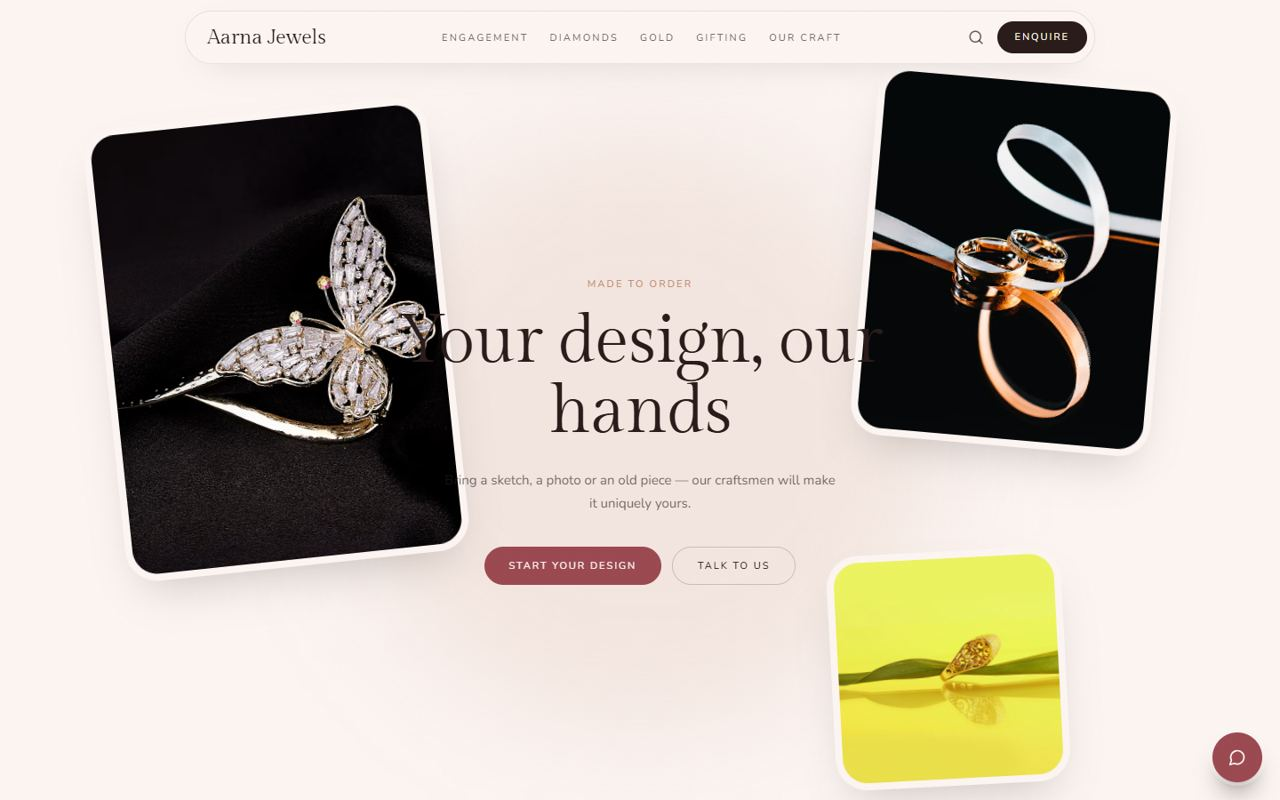
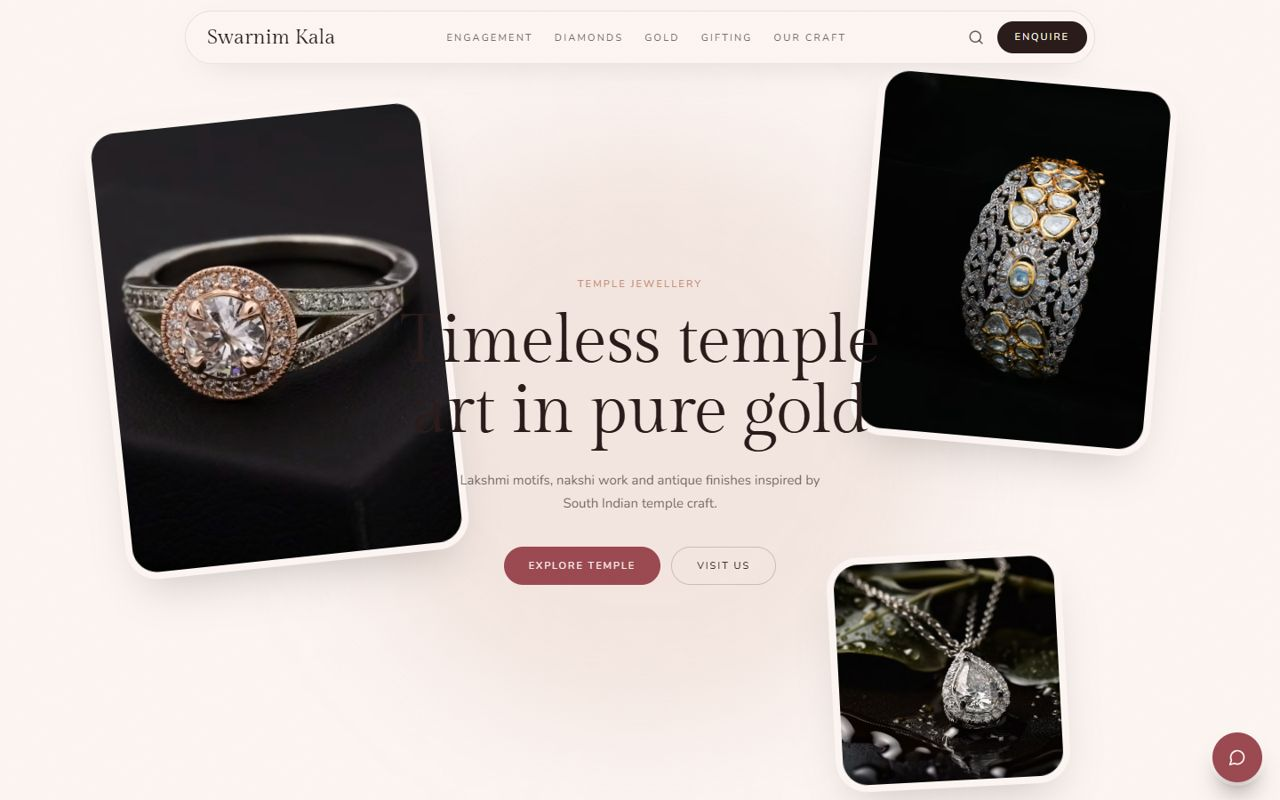
Homepage templates section: "A design that is only yours"
- Replaces the two busy rows of look-alike screenshots with a list of design
  names beside one large browser preview. Resting on a name shows it, the
  preview crossfades by opacity only (a quick sweep never stacks images), and it
  walks through the designs on its own with a progress line. Phones get chips.
- New screenshots: each design shown with its own demo store name and a
  different photo order, so no two open on the same picture.
- No template count anywhere in the section.
- Visitor tracking no longer fires on the platform's own homepage (it has no
  client, so the request 404'd).

Checked with Playwright in Edge at 1440 and 390 px.

diff --git a/src/pages/PlatformHome.tsx b/src/pages/PlatformHome.tsx
@@ -281,58 +281,154 @@ function HeroScene() {
 
 /* ============================================================ templates */
 
-function TemplateRail() {
-  const ref = useRef<HTMLElement>(null);
-  const reduce = useReducedMotion();
-  const { scrollYProgress } = useScroll({ target: ref, offset: ['start end', 'end start'] });
-  // the rows also slide with the scroll, on top of their own slow drift
-  const a = useTransform(scrollYProgress, [0, 1], ['4%', reduce ? '4%' : '-10%']);
-  const b = useTransform(scrollYProgress, [0, 1], ['-10%', reduce ? '-10%' : '4%']);
+function TemplateShowcase() {
   const list = TEMPLATES.filter((t) => t.id !== 'original');
-  const rows = [list.slice(0, 8), list.slice(8)];
+  const [active, setActive] = useState(0);
+  const [paused, setPaused] = useState(false);
+  const reduce = useReducedMotion();
+  const listRef = useRef<HTMLDivElement>(null);
+  const hoverTimer = useRef<number>();
+  // Only the autoplay scrolls the list; scrolling under a resting pointer would select
+  // whatever name slid beneath it.
+  const fromAutoplay = useRef(false);
+  const current = list[active];
+
+  // Walk through the designs on its own; any pointer over the section holds it still.
+  useEffect(() => {
+    if (paused || reduce) return;
+    const timer = window.setTimeout(() => {
+      fromAutoplay.current = true;
+      setActive((i) => (i + 1) % list.length);
+    }, 4200);
+    return () => window.clearTimeout(timer);
+  }, [active, paused, reduce, list.length]);
+
+  // Keep the chosen name in view inside its own scrolling list (never the page).
+  useEffect(() => {
+    if (!fromAutoplay.current) return;
+    fromAutoplay.current = false;
+    const box = listRef.current;
+    const item = box?.querySelector<HTMLElement>(`[data-i="${active}"]`);
+    if (!box || !item) return;
+    const horizontal = box.scrollWidth > box.clientWidth + 4;
+    if (horizontal) box.scrollTo({ left: item.offsetLeft - box.clientWidth / 2 + item.clientWidth / 2, behavior: 'smooth' });
+    else box.scrollTo({ top: item.offsetTop - box.clientHeight / 2 + item.clientHeight / 2, behavior: 'smooth' });
+  }, [active]);
 
   return (
-    <section ref={ref} id="templates" className="scroll-mt-20 overflow-hidden bg-[#0f1629] py-24 text-[#f6ece8] sm:py-32">
-      <div className="mx-auto max-w-7xl px-5 sm:px-8">
-        <Reveal className="flex flex-wrap items-end justify-between gap-6">
-          <div className="max-w-2xl">
-            <p className="text-xs font-semibold uppercase tracking-[0.25em] text-[#f0c2ae]">Designer templates</p>
-            <h2 className={`${display} mt-3 text-4xl font-medium sm:text-6xl`}>
-              One for every kind of <span className="italic text-[#f0c2ae]">jeweller</span>
-            </h2>
-          </div>
-          <p className="max-w-sm text-sm text-[#f6ece8]/60">
-            Each one moves differently — orbiting jewels, velvet curtains, glass vitrines, a card stack. Pick yours; your colours,
-            photos and words go in.
+    <section
+      id="templates"
+      onPointerEnter={() => setPaused(true)}
+      onPointerLeave={() => setPaused(false)}
+      className="relative scroll-mt-20 overflow-hidden bg-[#0f1629] py-24 text-[#f6ece8] sm:py-32">
+
+      <div aria-hidden className="pointer-events-none absolute -left-40 top-20 h-[30rem] w-[30rem] rounded-full bg-[#e0a891]/10 blur-3xl" />
+      <div className="relative mx-auto max-w-7xl px-5 sm:px-8">
+        <Reveal className="max-w-2xl">
+          <p className="text-xs font-semibold uppercase tracking-[0.25em] text-[#f0c2ae]">Designer templates</p>
+          <h2 className={`${display} mt-3 text-4xl font-medium sm:text-6xl`}>
+            A design that is <span className="italic text-[#f0c2ae]">only yours</span>
+          </h2>
+          <p className="mt-5 text-[#f6ece8]/60">
+            Every store gets its own design. Once it is yours, no other jeweller on the platform can use it.
           </p>
         </Reveal>
-      </div>
 
-      <div className="kit-marquee-wrap mt-16 space-y-6">
-        {rows.map((row, r) =>
-        <motion.div key={r} style={{ x: r ? b : a }}>
-            <div className={`kit-marquee flex w-max gap-6 ${r ? '[animation-direction:reverse]' : ''}`} style={{ animationDuration: '90s' }}>
-              {[...row, ...row].map((t, i) =>
-            <figure key={`${t.id}-${i}`} className="kit-tile group relative w-[300px] shrink-0 sm:w-[420px]">
-                  <div className="overflow-hidden rounded-xl bg-[#1a2340] ring-1 ring-white/10">
-                    <div className="flex items-center gap-1 px-2.5 py-1.5">
-                      <span className="h-1.5 w-1.5 rounded-full bg-white/25" />
-                      <span className="h-1.5 w-1.5 rounded-full bg-white/25" />
-                      <span className="h-1.5 w-1.5 rounded-full bg-white/25" />
-                    </div>
-                    <div className="overflow-hidden">
-                      <img src={shot(t.id)} alt={`${t.name} template`} loading="lazy" className="kit-tile-img aspect-[16/10] w-full object-cover object-top" />
-                    </div>
-                  </div>
-                  <figcaption className="mt-3 flex items-baseline justify-between gap-3">
-                    <span className={`${display} text-2xl`}>{t.name}</span>
-                    <span className="text-[10px] uppercase tracking-[0.18em] text-[#f6ece8]/45">{t.mode} · {t.layout.hero.replace('story-', '')}</span>
-                  </figcaption>
-                </figure>
-            )}
+        <div className="mt-14 grid gap-8 lg:grid-cols-[minmax(0,0.75fr)_minmax(0,1.6fr)] lg:gap-14">
+          {/* the names */}
+          <div
+            ref={listRef}
+            className="-mx-5 flex gap-2 overflow-x-auto px-5 pb-2 [scrollbar-width:none] lg:mx-0 lg:block lg:max-h-[34rem] lg:overflow-y-auto lg:px-0 lg:pb-0 lg:[mask-image:linear-gradient(transparent,black_8%,black_92%,transparent)] [&::-webkit-scrollbar]:hidden">
+
+            {list.map((t, i) => {
+              const on = i === active;
+              return (
+                <button
+                  key={t.id}
+                  data-i={i}
+                  type="button"
+                  onClick={() => setActive(i)}
+                  // Hover chooses a design only once the pointer rests on it.
+                  onPointerEnter={() => {
+                    window.clearTimeout(hoverTimer.current);
+                    hoverTimer.current = window.setTimeout(() => setActive(i), 150);
+                  }}
+                  onPointerLeave={() => window.clearTimeout(hoverTimer.current)}
+                  aria-pressed={on}
+                  className={`group shrink-0 rounded-full border px-4 py-2 text-left transition-colors duration-300 lg:block lg:w-full lg:rounded-none lg:border-0 lg:border-b lg:border-white/10 lg:px-0 lg:py-4 ${
+                  on ? 'border-[#f0c2ae] bg-[#f0c2ae]/10 lg:bg-transparent' : 'border-white/15'}`
+                  }>
+
+                  <span className="flex items-baseline gap-4">
+                    <span
+                      className={`${display} whitespace-nowrap text-lg transition-[color,transform] duration-500 [transition-timing-function:var(--ease-out)] lg:text-[1.9rem] lg:leading-tight ${
+                      on ? 'text-[#f0c2ae] lg:translate-x-2' : 'text-white/55 group-hover:text-white'}`
+                      }>
+
+                      {t.name}
+                    </span>
+                  </span>
+                  {on &&
+                  <motion.span
+                    initial={{ opacity: 0 }}
+                    animate={{ opacity: 1 }}
+                    transition={{ duration: 0.5 }}
+                    className="mt-2 hidden pl-2 text-sm leading-relaxed text-white/55 lg:block">
+
+                      {t.description}
+                    </motion.span>
+                  }
+                </button>);
+
+            })}
+          </div>
+
+          {/* the preview */}
+          <div>
+            <div className="group relative overflow-hidden rounded-2xl bg-[#1a2340] shadow-[0_60px_120px_-40px_rgb(0_0_0/0.8)] ring-1 ring-white/10">
+              <div className="flex items-center gap-1.5 border-b border-white/5 px-4 py-2.5">
+                <span className="h-2.5 w-2.5 rounded-full bg-[#ff5f57]" />
+                <span className="h-2.5 w-2.5 rounded-full bg-[#febc2e]" />
+                <span className="h-2.5 w-2.5 rounded-full bg-[#28c840]" />
+                <span className="ml-3 flex flex-1 items-center gap-1.5 truncate rounded-md bg-black/30 px-3 py-1 text-[11px] text-white/45">
+                  <LockIcon className="h-3 w-3 shrink-0" />
+                  yourjewellers.com
+                </span>
+              </div>
+              <div className="relative aspect-[16/10] overflow-hidden">
+                {/* Every design is loaded once and only its opacity changes, so a quick sweep
+                    across the names never stacks half-faded images. */}
+                {list.map((t, i) =>
+                <img
+                  key={t.id}
+                  src={shot(t.id)}
+                  alt={i === active ? `${t.name} design` : ''}
+                  aria-hidden={i !== active}
+                  data-active={i === active || undefined}
+                  className={`absolute inset-0 h-full w-full object-cover object-top transition-[opacity,transform] duration-700 [transition-timing-function:var(--ease-out)] ${
+                  i === active ? 'scale-100 opacity-100' : 'scale-[1.03] opacity-0'}`
+                  } />
+
+                )}
+              </div>
             </div>
-          </motion.div>
-        )}
+            <div className="mt-5 flex items-center gap-4">
+              <p className={`${display} text-2xl lg:hidden`}>{current.name}</p>
+              <span className="h-px flex-1 overflow-hidden bg-white/10">
+                {!paused && !reduce &&
+                <motion.span
+                  key={active}
+                  className="block h-full origin-left bg-gradient-to-r from-[#f0c2ae] to-[#c98b74]"
+                  initial={{ transform: 'scaleX(0)' }}
+                  animate={{ transform: 'scaleX(1)' }}
+                  transition={{ duration: 4.2, ease: 'linear' }} />
+
+                }
+              </span>
+            </div>
+            <p className="mt-3 text-sm text-white/55 lg:hidden">{current.description}</p>
+          </div>
+        </div>
       </div>
     </section>);
 
@@ -576,7 +672,7 @@ export function PlatformHome() {
         </div>
       </section>
 
-      <TemplateRail />
+      <TemplateShowcase />
 
       {/* ---------- features ---------- */}
       <section id="features" className="scroll-mt-20 py-24 sm:py-32">

diff --git a/src/pages/Landing.tsx b/src/pages/Landing.tsx
@@ -1,4 +1,4 @@
-import React, { Suspense, lazy, useEffect } from 'react';
+import React, { Suspense, lazy, useEffect, useRef } from 'react';
 import { useContent } from '../hooks/useContent';
 import { trackLead } from '../utils/leads';
 import { Header } from '../components/site/Header';
@@ -173,11 +173,15 @@ export function Landing() {
   // The original design renders exactly as it was built: no engine attributes, no extras.
   const premium = tpl.id !== 'original';
 
-  // Everyone who reaches the site becomes a lead the moment they land, so the
-  // leads desk sees them even if they never fill anything in.
+  // Everyone who reaches a client's site becomes a lead the moment they land, so the
+  // leads desk sees them even if they never fill anything in. The platform's own
+  // homepage belongs to no client, so nothing is tracked there.
+  const tracked = useRef(false);
   useEffect(() => {
+    if (!loaded || noSite || tracked.current) return;
+    tracked.current = true;
     trackLead('arrived');
-  }, []);
+  }, [loaded, noSite]);
 
   if (noSite) {
     return (
